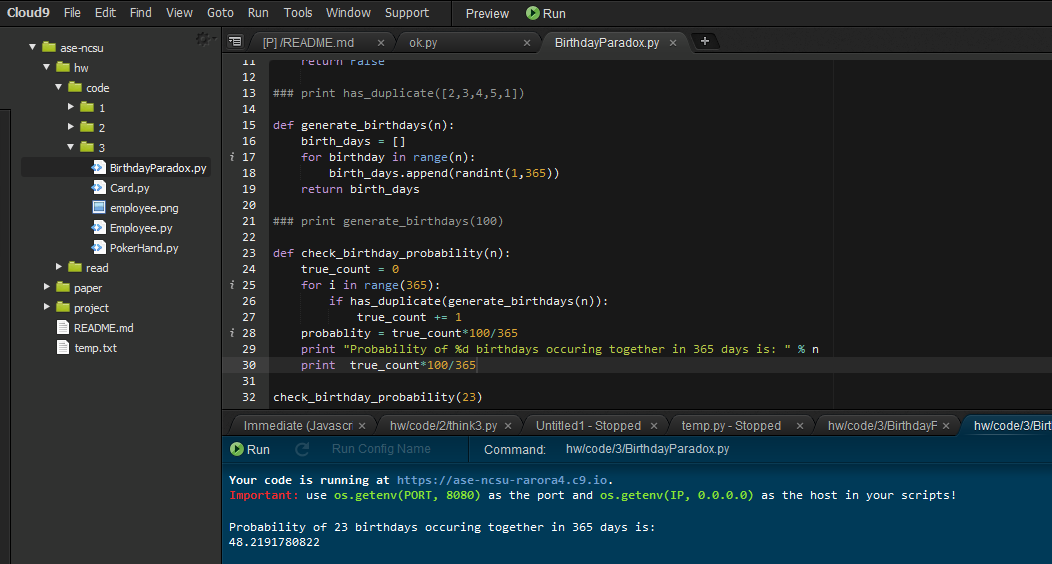
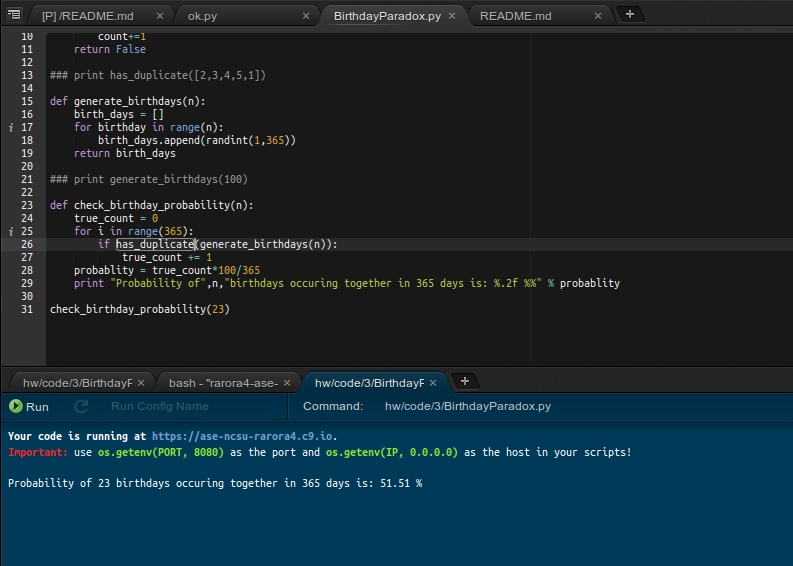
Birthday Paradox Image Fix

diff --git a/hw/code/3/BirthdayParadox.py b/hw/code/3/BirthdayParadox.py
@@ -26,7 +26,6 @@ def check_birthday_probability(n):
         if has_duplicate(generate_birthdays(n)):
             true_count += 1
     probablity = true_count*100/365
-    print "Probability of %d birthdays occuring together in 365 days is: " % n
-    print  true_count*100/365
+    print "Probability of",n,"birthdays occuring together in 365 days is: %.2f %%" % probablity
     
 check_birthday_probability(23)
